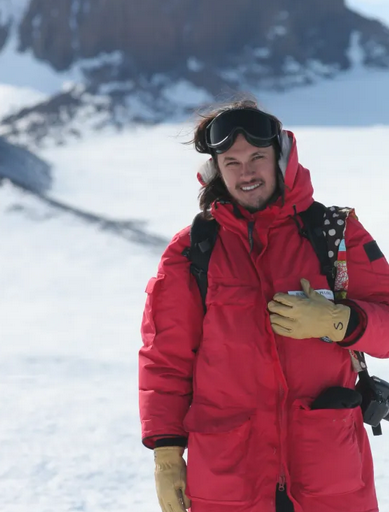
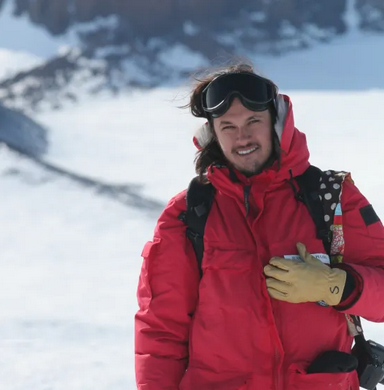
Added third speaker | 3 per row

diff --git a/index.html b/index.html
@@ -337,30 +337,36 @@
   .stat-box .stat-l { font-size: 0.78rem; color: var(--dim); margin-top: 0.2rem; }
 
   /* ── SPEAKERS ── */
+  #speakers { max-width: 1400px; }
+  .speakers-grid {
+    display: grid;
+    grid-template-columns: repeat(3, 1fr);
+    gap: 1.5rem;
+    margin-top: 2rem;
+    align-items: stretch;
+  }
   .speaker-card {
-    display: flex; gap: 2.5rem; align-items: stretch;
+    display: flex; flex-direction: column; gap: 0;
     background: var(--surface); border: 1px solid var(--border);
-    border-radius: 12px; overflow: hidden; margin-top: 2rem;
+    border-radius: 12px; overflow: hidden;
     box-shadow: 0 4px 24px rgba(8,24,72,0.07);
   }
   .speaker-photo {
-    flex: 0 0 300px; width: 300px; aspect-ratio: 4/5; align-self: flex-start;
-    margin-top: 2rem;
-    border-radius: 10px; overflow: hidden;
-    border: 1px solid var(--border); box-shadow: 0 2px 10px rgba(8,24,72,0.05);
+    flex: none; width: 100%; aspect-ratio: 4/3;
+    overflow: hidden;
+    border: none; border-bottom: 1px solid var(--border);
     background: var(--bg2);
-    margin-left: 4.0rem;
   }
   .speaker-photo img {
     width: 100%; height: 100%; object-fit: cover;
     object-position: 62% center; display: block;
   }
   .speaker-body {
-    flex: 1; padding: 2rem 1.0rem;
+    flex: 1; padding: 1.5rem;
     display: flex; flex-direction: column; align-items: flex-start;
   }
   .speaker-name {
-    font-size: 1.55rem; font-weight: 700; color: var(--ink);
+    font-size: 1.35rem; font-weight: 700; color: var(--ink);
     letter-spacing: -0.01em; line-height: 1.15; margin-bottom: 0.35rem;
   }
   .speaker-role { font-size: 0.9rem; color: var(--accent2); font-weight: 500; margin-bottom: 0; line-height: 1.5; }
@@ -377,10 +383,11 @@
     transition: color 0.15s;
   }
   .speaker-link:hover { color: var(--accent); }
+  @media (max-width: 1024px) {
+    .speakers-grid { grid-template-columns: repeat(2, 1fr); }
+  }
   @media (max-width: 720px) {
-    .speaker-card { flex-direction: column; gap: 0; }
-    .speaker-photo { flex: none; width: 100%; min-height: 0; aspect-ratio: 4/3; margin: 0; }
-    .speaker-body { padding: 1.5rem; }
+    .speakers-grid { grid-template-columns: 1fr; }
   }
 
   /* ── TOPICS ── */
@@ -1032,17 +1039,38 @@
   <h2>Keynote speakers</h2>
   <p>Further announcements regarding keynote speakers will follow in <strong>September 2026</strong>.</p>
 
+  <div class="speakers-grid">
+
+    <div class="speaker-card">
+    <div class="speaker-photo"><img src="astrosciences/people/martale.jpeg" alt="Maria Celeste Artale"/></div>
+    <div class="speaker-body">
+      <h3 class="speaker-name">Maria Celeste Artale</h3>
+      <p class="speaker-role">Associate Professor, Universidad Andrés Bello<br/>Astrophysics Institute, UNAB, Chile</p>
+      <p class="speaker-bio">Maria Celeste Artale is an Associate Professor at Universidad Andrés Bello (UNAB) in Chile. Her research spans theoretical astrophysics, with emphasis on the host galaxies of binary compact object mergers, short gamma-ray bursts and X-ray binaries, high-redshift galaxies as protocluster tracers, and the connection between dark matter haloes and galaxy properties.</p>
+      <div class="speaker-topics">
+        <span class="stopic">Gravitational Waves</span>
+        <span class="stopic">X-ray Binaries</span>
+        <span class="stopic">Galaxy Formation</span>
+        <span class="stopic">Dark Matter Haloes</span>
+        <span class="stopic">Large-Scale Structure</span>
+      </div>
+      <div class="speaker-links">
+        <a class="speaker-link" href="https://www.celesteartale.com/" target="_blank" rel="noopener">Personal website →</a>
+        <a class="speaker-link" href="https://scholar.google.com/citations?user=mA8u9VMAAAAJ&hl=en" target="_blank" rel="noopener">Google Scholar →</a>
+      </div>
+    </div>
+    </div>
+
     <div class="speaker-card">
     <div class="speaker-photo"><img src="astrosciences/people/ecampbell.jpeg" alt="Eleanor E. B. Campbell"/></div>
     <div class="speaker-body">
       <h3 class="speaker-name">Eleanor E. B. Campbell</h3>
-      <p class="speaker-role">Professor Emeritus of Chemistry, University of Edinburgh<br/>Fellow of the Royal Society</p>
+      <p class="speaker-role">Professor Emeritus of Chemistry, University of Edinburgh • Fellow of the Royal Society</p>
       <p class="speaker-bio">Eleanor E. B. Campbell is Professor Emeritus of Chemistry at the University of Edinburgh. A Fellow of the Royal Society, she held a chair at the University of Gothenburg and led a department at the Max Born Institute, building her career on the physics of highly excited molecules, nanoclusters and carbon nanostructures. Her research bridges femtosecond laser spectroscopy, ion–surface interactions and the behaviour of molecular materials under extreme excitation.</p>
       <div class="speaker-topics">
         <span class="stopic">Chemistry</span>
         <span class="stopic">Physics</span>
         <span class="stopic">Nanoscience</span>
-        <span class="stopic">Materials in extreme environments</span>
       </div>
       <div class="speaker-links">
         <a class="speaker-link" href="https://edwebprofiles.ed.ac.uk/profile/professor-eleanor-e-b-campbell" target="_blank" rel="noopener">Edinburgh profile →</a>
@@ -1056,7 +1084,7 @@
     <div class="speaker-body">
       <h3 class="speaker-name">Juan Diego Soler</h3>
       <p class="speaker-role">Astrophysicist, University of Vienna<br/>Funded by the Austrian Science Fund (FWF)</p>
-      <p class="speaker-bio">Juan Diego Soler is an astrophysicist at the University of Vienna's Astronomy Department, funded by the Austrian Science Fund (FWF). He develops statistical tools to study the interstellar medium (ISM), combining radio and far-infrared observations with numerical simulations to understand the physical processes that shape the clouds of gas and dust in the Milky Way. Beyond research, he writes science outreach columns for <a href="https://www.elespectador.com/opinion/columnistas/juan-diego-soler/" target="_blank" rel="noopener" style="color:var(--accent2);text-decoration:none;border-bottom:1px solid var(--border-em);">El Espectador</a> and is the author of two <a href="https://juandiegosoler.com/my-books/" target="_blank" rel="noopener" style="color:var(--accent2);text-decoration:none;border-bottom:1px solid var(--border-em);">books</a> on Antarctic astronomical explorations.</p>
+      <p class="speaker-bio">Juan Diego Soler is an astrophysicist at the University of Vienna's Astronomy Department. He develops statistical tools to study the interstellar medium (ISM), combining radio and far-infrared observations with numerical simulations to understand the physical processes that shape the clouds of gas and dust in the Milky Way. Beyond research, he writes science outreach columns for <a href="https://www.elespectador.com/opinion/columnistas/juan-diego-soler/" target="_blank" rel="noopener" style="color:var(--accent2);text-decoration:none;border-bottom:1px solid var(--border-em);">El Espectador</a> and is the author of two <a href="https://juandiegosoler.com/my-books/" target="_blank" rel="noopener" style="color:var(--accent2);text-decoration:none;border-bottom:1px solid var(--border-em);">books</a> on Antarctic astronomical explorations.</p>
       <div class="speaker-topics">
         <span class="stopic">Astrophysics</span>
         <span class="stopic">Data analysis</span>
@@ -1068,6 +1096,7 @@
       </div>
     </div>
     </div>
+  </div>
 </section>
 
 <hr class="divider"/>

diff --git a/TODOS.md b/TODOS.md
@@ -19,7 +19,10 @@
 - [ ] **Add speakers**
 
   Eleanor E. B. Campbell.
+
   Juan Diego Soler.
+
+  Maria Celeste Artale.
 
 - [ ] **Add other universiy logos**
 
